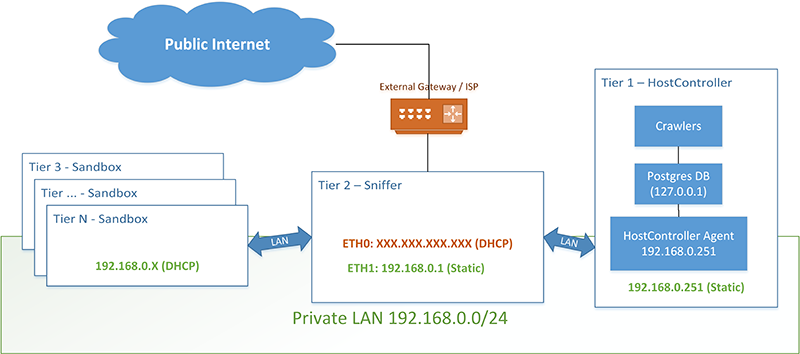
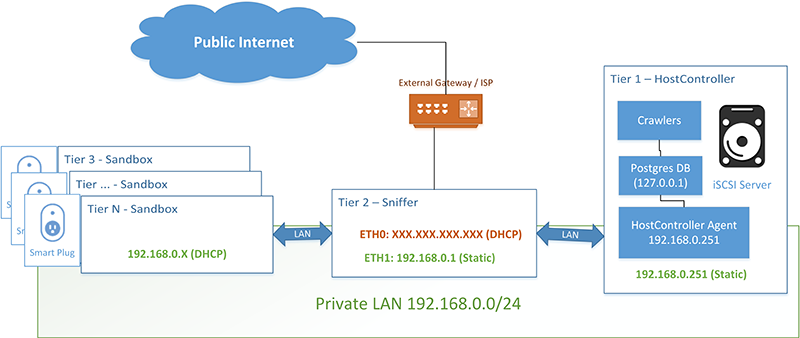
Added images to Baremetal docs

diff --git a/docs/source/BareMetal/Topology.rst b/docs/source/BareMetal/Topology.rst
@@ -23,16 +23,26 @@ The HostController resides in the same LAN where Sandboxes are.
 Therefore, it binds the address *192.168.0.251*.
 Again, since we plan to use a single HostController, the database is hosted locally to the HostController and will bind the loopback address (*127.0.0.1*).
 
+Sandboxes reside in the private LAN and acquire an IP address directly from the sniffer, via DHCP.
+Each sandbox is connected to the power line through a smart plug, which joins the private LAN too.
+The sniffer will then be configured to assign specific IP addresses to smart plugs so that each of them will be leased an known IP address via DHCP.
+Such configuration is necessary in order to create a binding between each smart plug and its connected sandbox.
+More details are available in the Sniffer configuration section.
 
+Notes on the iSCSI diskless boot
+--------------------------------
+Bare metal sandboxes take advantages of diskless boot over iSCSI protocol in order to implement clean state rollback and centralized image management.
+The idea is to use diskless sandboxes, which boot over the network via a *PreXecution Environment (PXE)*.
+Each sandbox is configured to boot via a permanent USB stick containing a custom version of *iPXE*.
+When the sandbox boots up, the iPXE script will perform a special HTTP request against the HostController Service.
+When this happens, the HostController will allocate a new differencing disk upon a base virtual disk.
+Then it exposes the newly created disk via an iSCSI target. Then, the web request performed by the sandbox is responded with the iSCSI boot parameter that the specific sandbox needs to apply.
+As a result, the Sandbox will hook the specified SAN and will boot up.
+Every IO against the disk will go trough iSCSI and will only affect the differencing disk attached to that iSCSI LUN.
 
-
-Bare metal sandboxes take advantages of diskless boot over iSCSI protocol.
-In particular the HostController exposes on iSCSI target for each Sandbox node.
-Each sandbox is configured to mount the iSCSI target and booting the OS directly from there.
-Such objective is achieved by booting into a _PreXecution Environment_ (PXE), mounting the associated iSCSI target and then booting.
-
-The preparation of such nodes is time consuming and requires basic knowledge of iSCSI and PXE technologies.
-However, in this tutorial we will guide the user in the whole process.
+When the analysis is over, the HostController will hard reboot the Sandbox using the associated power plug.
+Therefore the sandbox will boot again in the iPXE environment and the process reiterates.
+The only difference with the previous step is that the differencing disk will be deleted and created again (such operation takes almost no time).
 
 Requirements and limitations
 ----------------------------

diff --git a/docs/source/BareMetal/Introduction.rst b/docs/source/BareMetal/Introduction.rst
@@ -1,7 +1,7 @@
 .. _multitier_baremetal:
 
-Introduction
-============
+Multitier baremetal configuration.
+==================================
 Most of the Malware Sandbox Analysis System freely available nowadays only rely on virtualization for performing the analysis.
 In fact, any virtualization system facilitates the analysis by implementing snapshots and rollback functions, which are particularly useful to revert the status of the sandbox after every analysis.
 Moreover, most hypervisors also export a series of APIs which can be used to automate the control the sandboxes.
@@ -15,3 +15,9 @@ This represents an interesting use-case that justifies the need of bare-metal sa
 TheThing has been developed to support bare metal guests from the very beginning.
 Moreover, bare metal support has been developed in respect with both scalability and performance.
 In particular, TheThing takes full advantage of diskless boot together with iSCSI protocol in order to implement *centralized image management* and *fast rollback*.
+
+.. toctree::
+   :maxdepth: 3
+   :caption: Contents:
+
+   Topology

diff --git a/docs/source/index.rst b/docs/source/index.rst
@@ -20,6 +20,7 @@ TheThing was developed precisely to offer a valid tool for collecting informatio
    Introduction
    Virtualbox/Introduction
    Openstack/Introduction
+   BareMetal/Introduction
 
 
 Indices and tables
